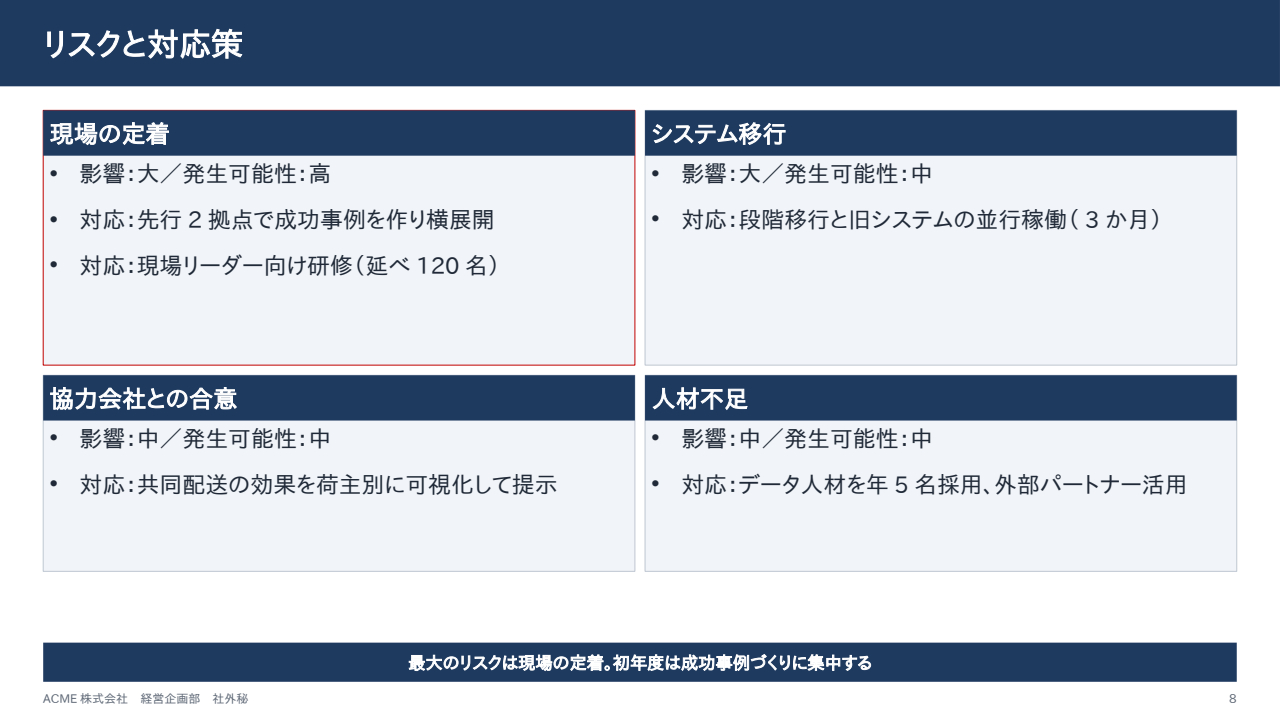
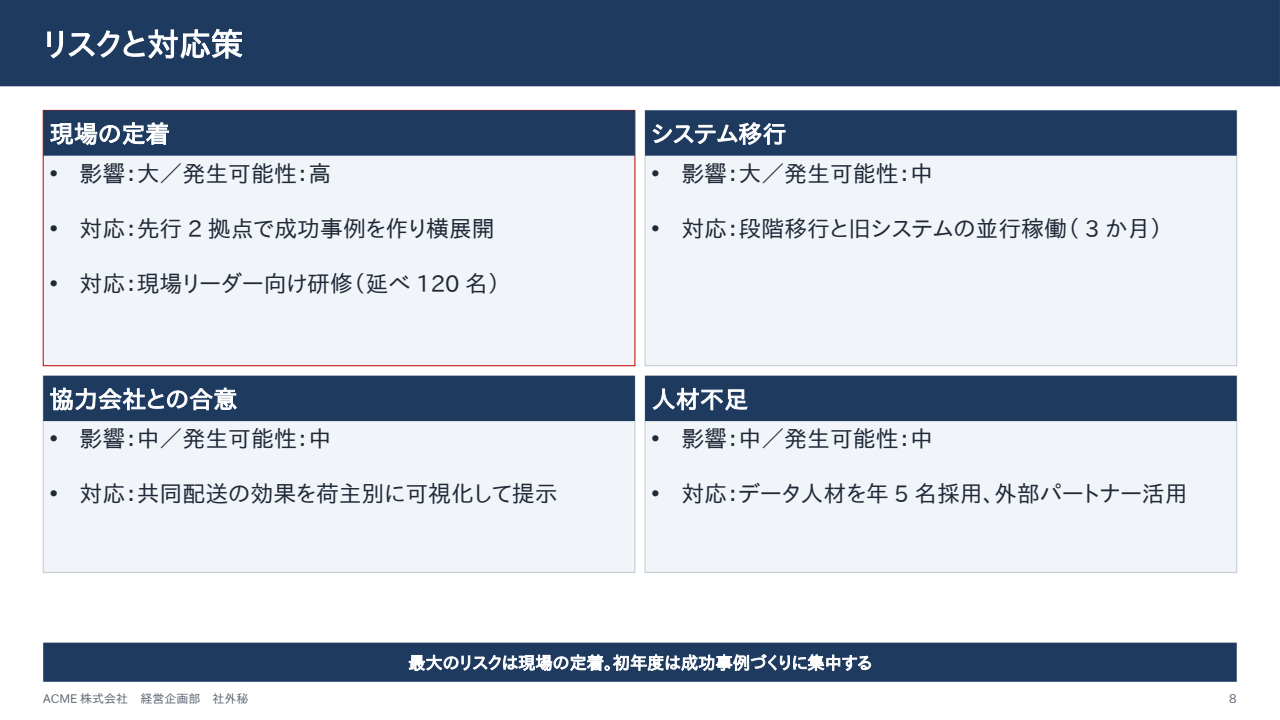
Merge sparse-slide balance (text + cards grow together, bar penalty); gallery
Claude-Session: https://claude.ai/code/session_01Ke9eG6QYRXbWhp424VsP44

diff --git a/docs/LESSONS.md b/docs/LESSONS.md
@@ -93,3 +93,4 @@ One line per item: `[area] problem → fix`. Newest at the bottom. Read before s
 - [html] `\btransform:` also matched `text-transform:`. SVG paths default to a black fill (ignore zero-area ones). Measure with transforms neutralised, then map centres through ancestor matrices.
 - [eval] Lint must use the deck's real design (`deck_theme`, tokens applied): tests that used `resolve_theme` saw neutral colors and missed/raised contrast falsely.
 - [import] PowerPoint drops unknown package parts → the design source (tokens, css, html) rides in a customXml item keyed by `p:sldId` (reorder-safe); an HTML slide whose text was edited imports as shapes (`import-html-edited`).
+- [layout] The search stacked short boxes into wide bars because the scorer counted short cards as sparse → `bars` penalty (bar ≥ 60% wide whose longest line < 50%). Closing the empty band by stretching cards only moves the emptiness inside the cards: grow text first.

diff --git a/README.md b/README.md
@@ -50,7 +50,7 @@ slidemark skill install      # cài skill cho Claude Code
 ## Ảnh slide mẫu (cập nhật hằng ngày)
 
 <!-- gallery:start -->
-Cập nhật: 2026-10-05 · commit `4cac6f0` · tạo tự động bởi `scripts/gallery.py`.
+Cập nhật: 2026-10-05 · commit `7b4b607` · tạo tự động bởi `scripts/gallery.py`.
 
 ### Cơ bản: tiêu đề, danh sách, box, bảng, biểu đồ
 
